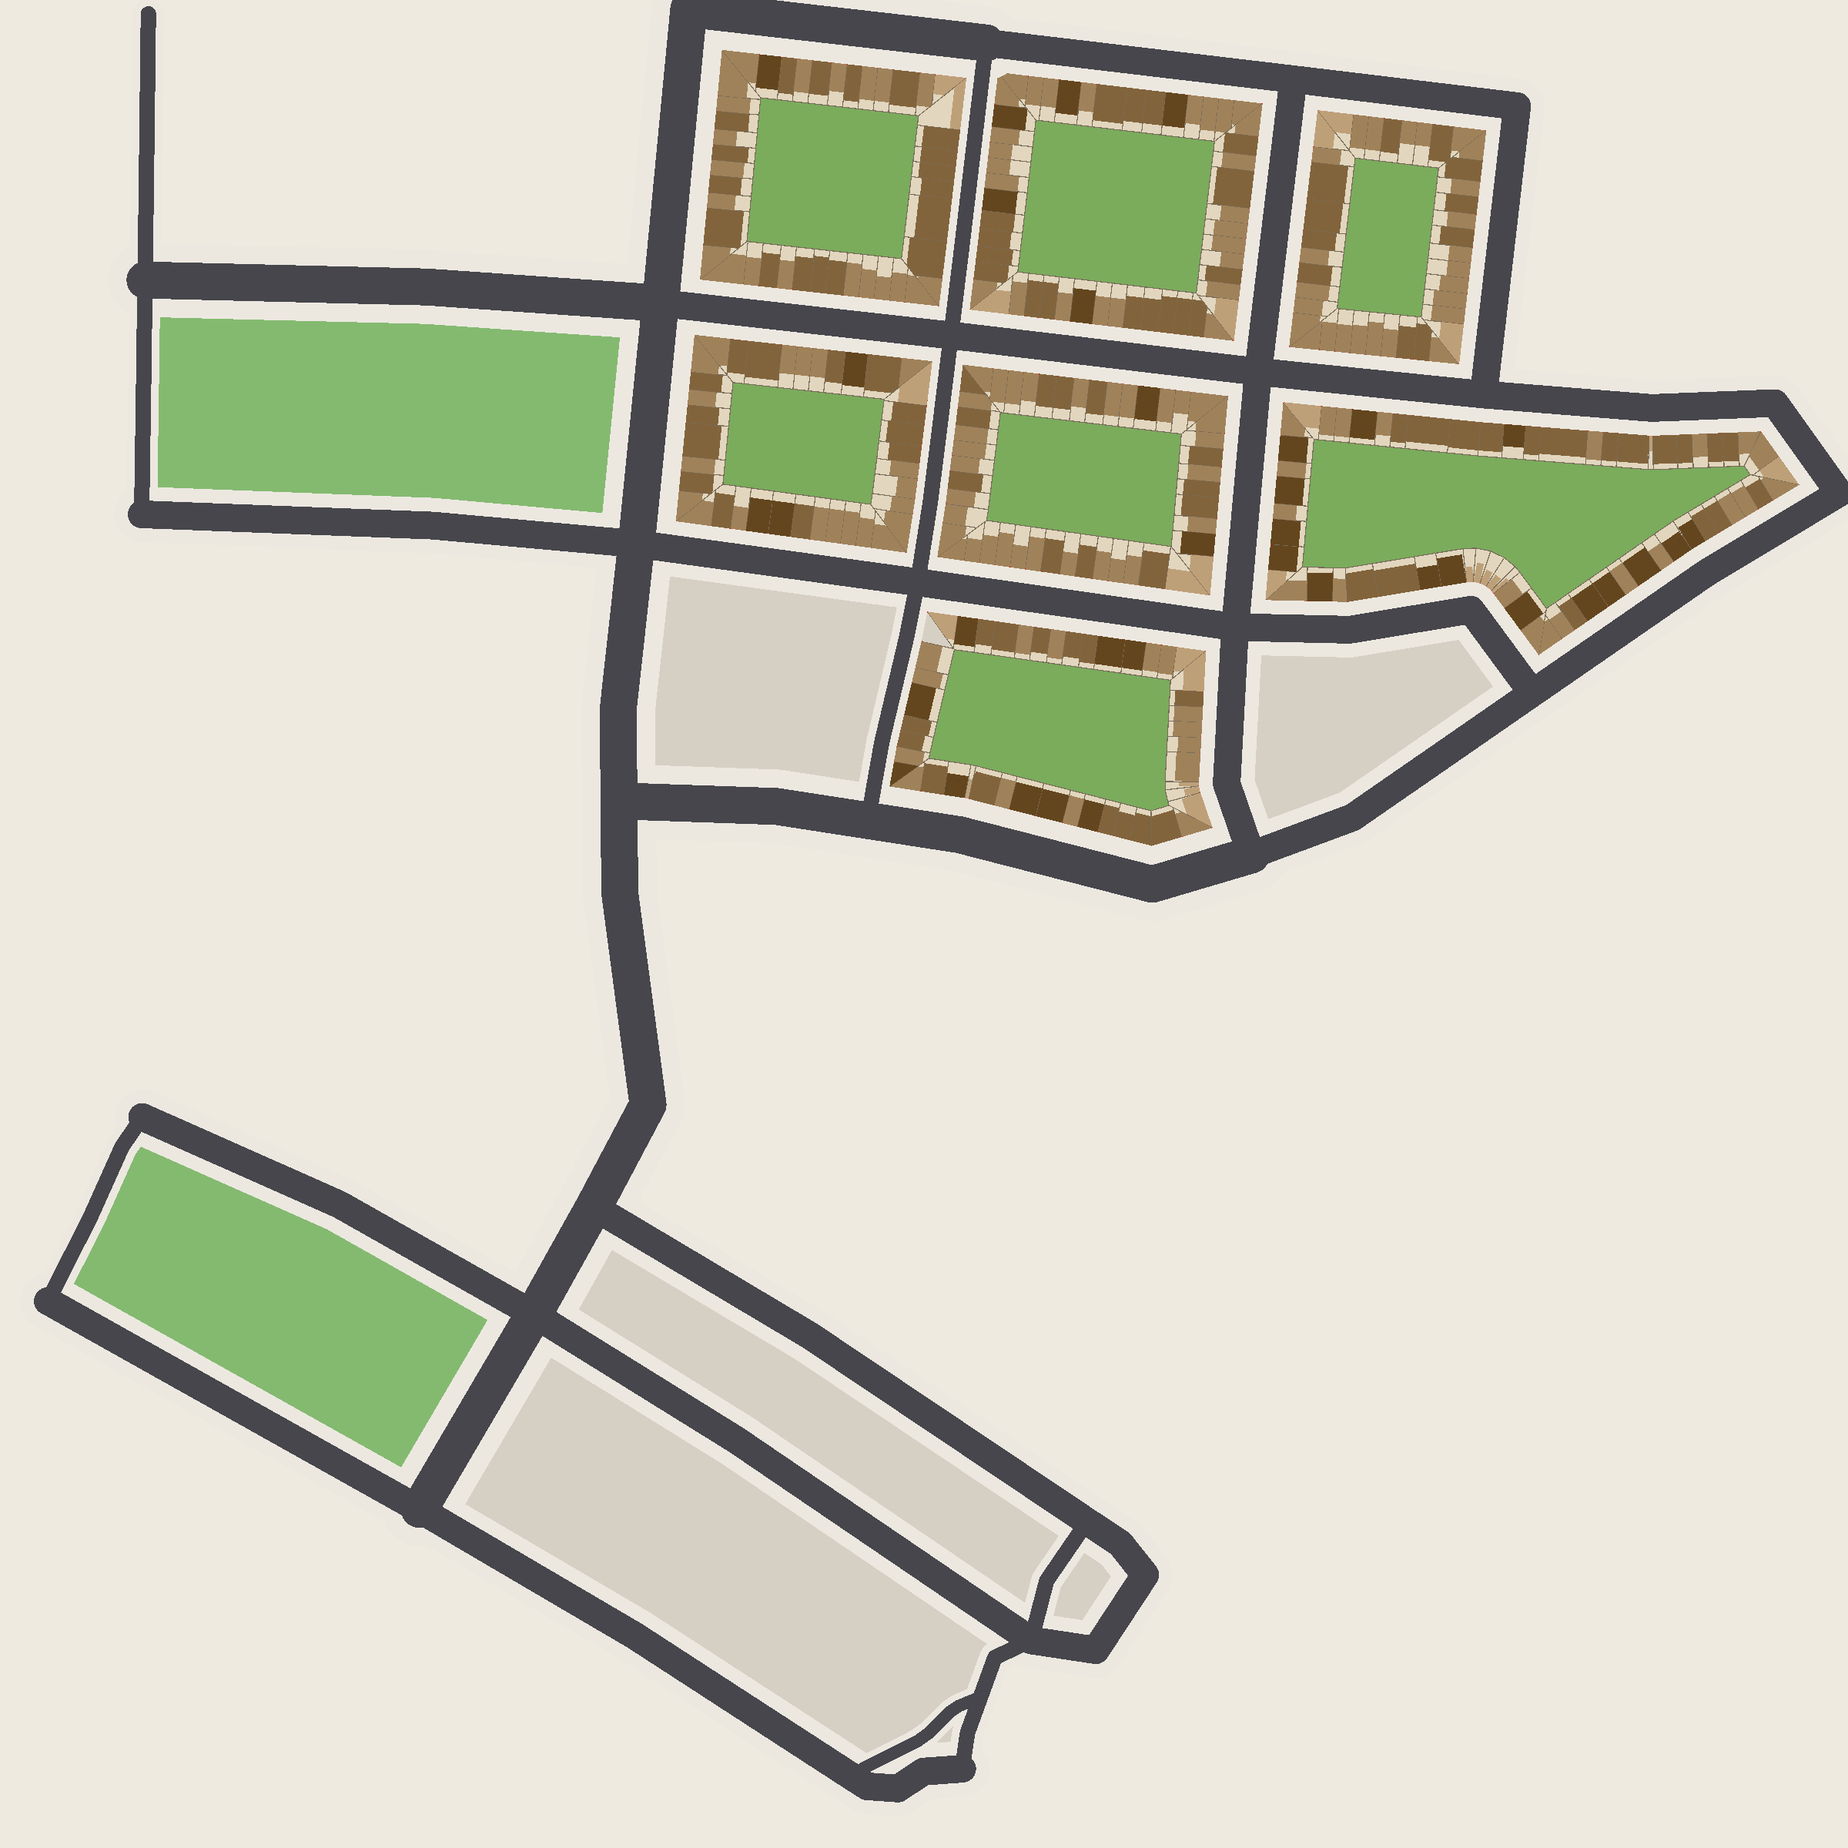
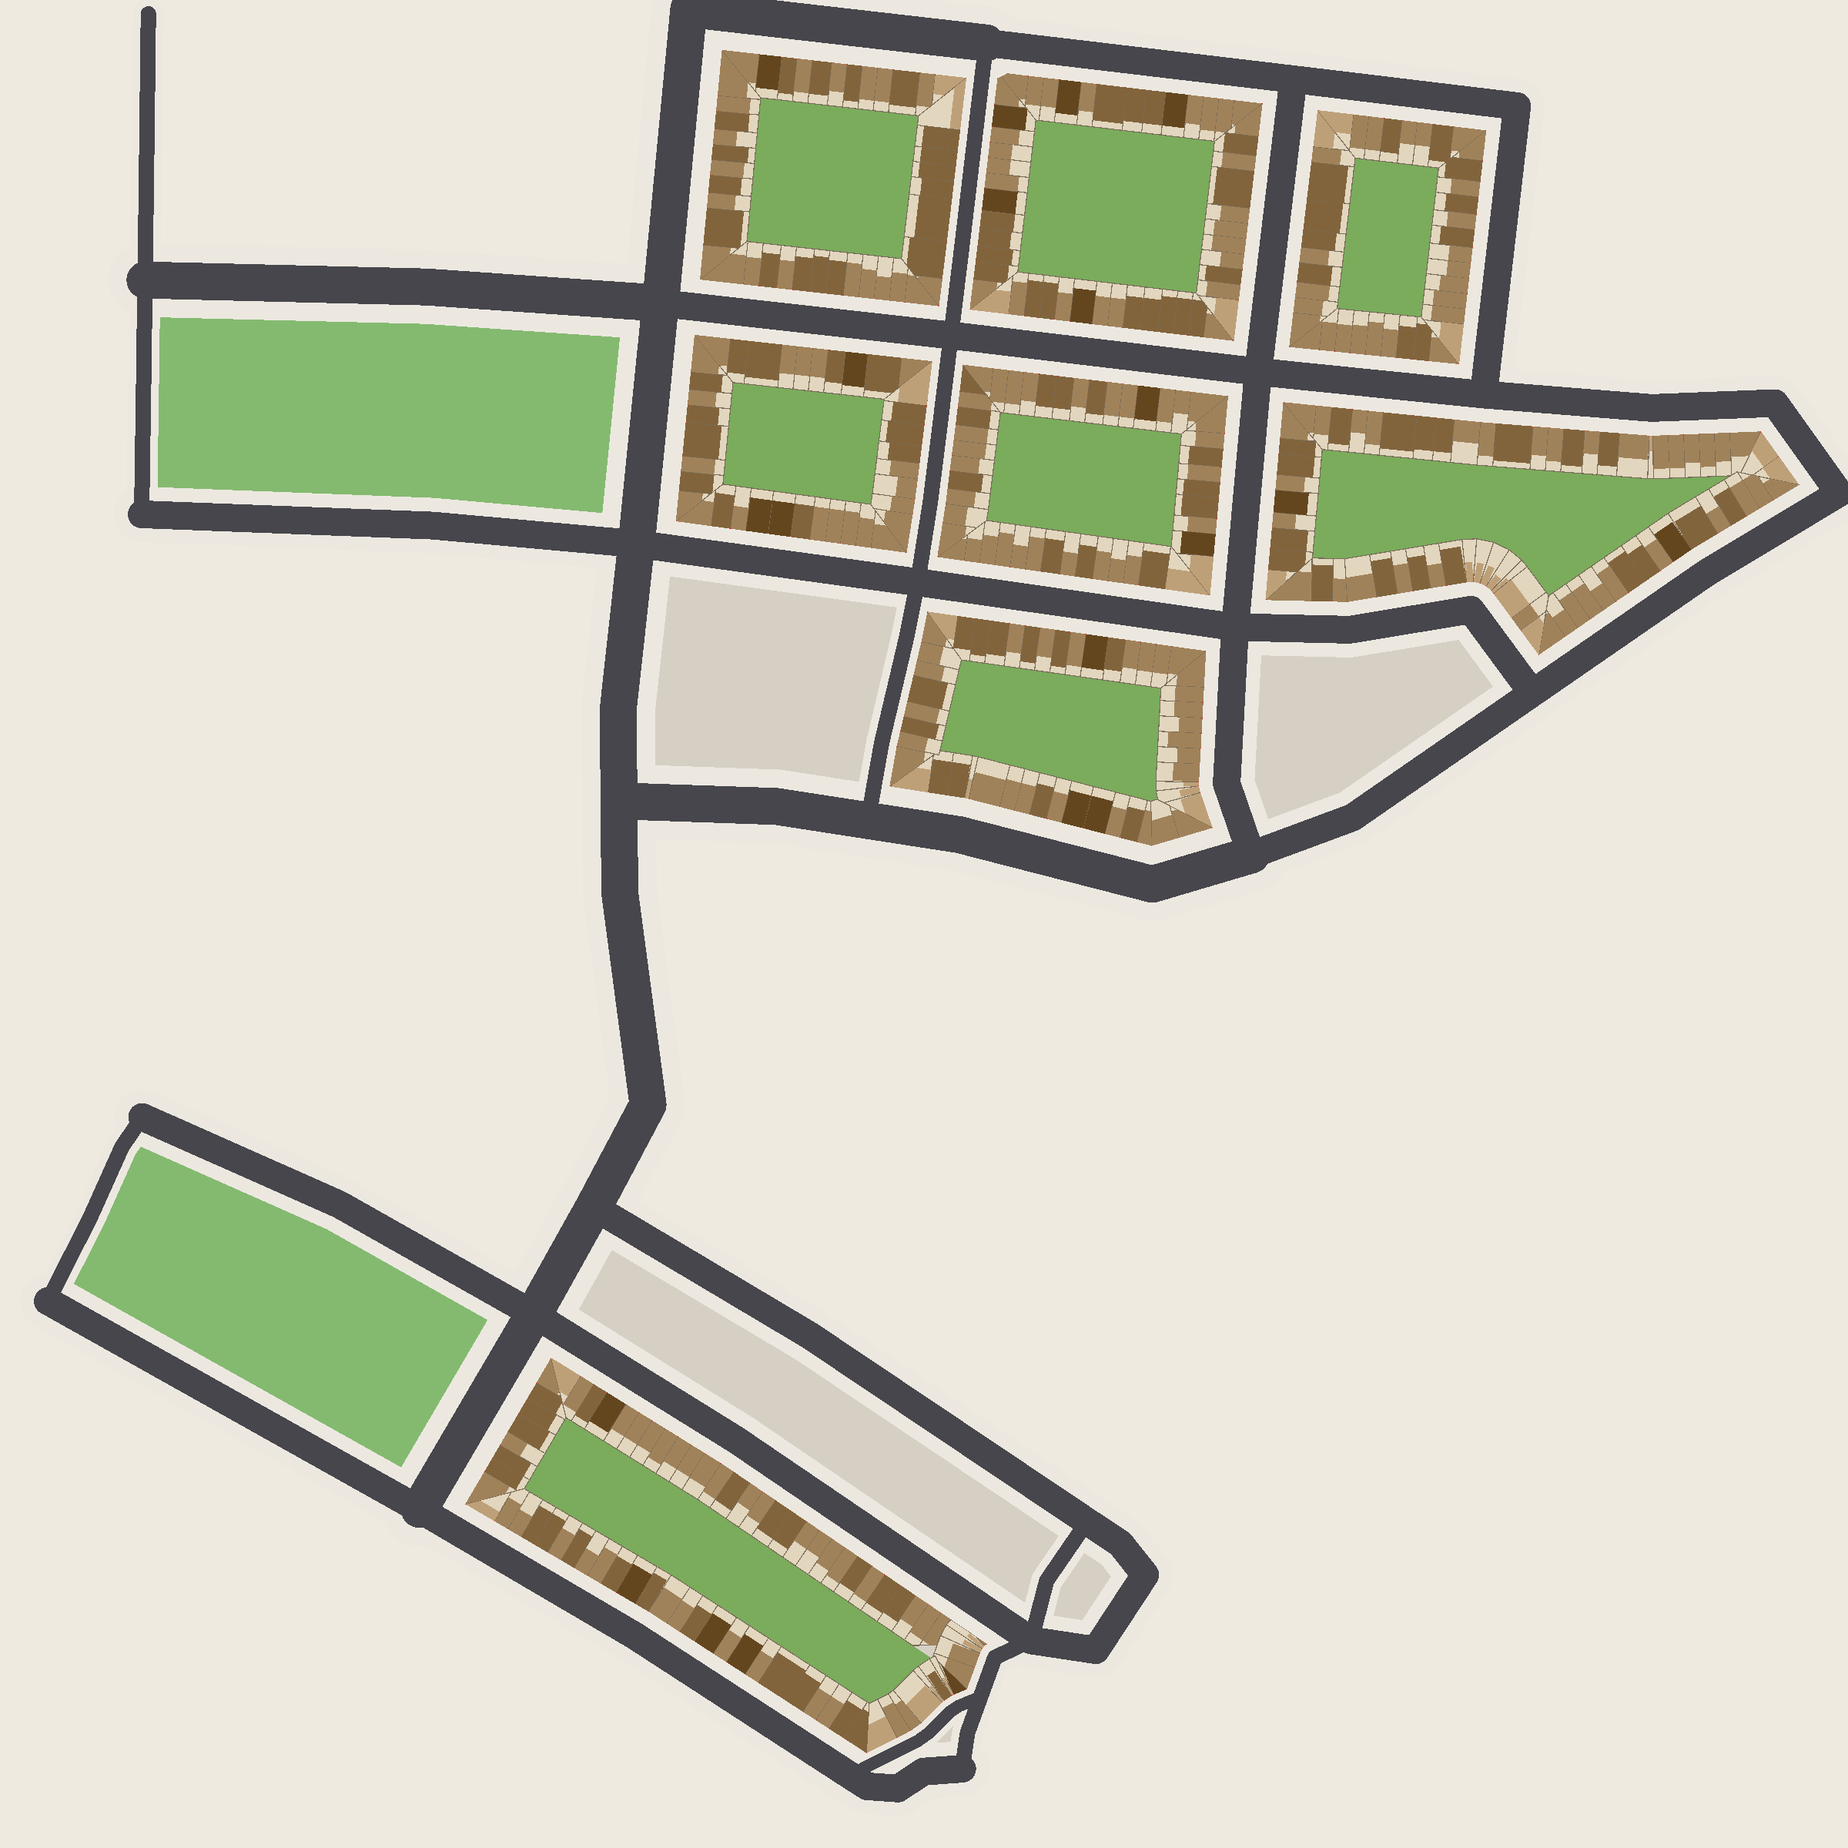
The village on its own plan: lanes that wander, one main road, no trams; strips on any block (#266)
`village::params`: one village district on the site's middle with organic
lanes, one main road, no trams, boats nor landmarks, a green within 200 m
of every block; `city-plan --village` plans on it. The traced lanes make
blocks of many short edges, which the strips refused: the inset by the
depth lost corners and had to keep the block's vertex count. A strip is
now the block within the depth of its street side, between the bisectors
at the side's two corners (a reflex corner's too), and the court is the
inset that drops the edges it turns over (`geom::inset_by_collapsing`);
the clips' repeated corners are cleaned. The village's own plan at 600 m:
16 blocks, 13 built and all with strips, 559 houses, 1 691 people; the
city's parameters' example: 8 blocks with strips of 9, 406 houses.

Checks: the gate; the parcels, houses and village tests, the new one on
the village's own plan (no trams, four built blocks at least, forty
houses); drawn in reports/2026-10-16 (village-own-organic.png, the 3D
captures redone).

Changed region(s): [[0.25, 0.7188, 0.5312, 0.9688], [0.6875, 0.2188, 0.9688, 0.3438], [0.4688, 0.3125, 0.6562, 0.4688]]

diff --git a/crates/forge-procgen/src/city/village.rs b/crates/forge-procgen/src/city/village.rs
@@ -6,7 +6,7 @@
 //! Each house is also one of the city's masses on its own lot, so the structures, the facades
 //! and the kit draw it as they draw the city's buildings.
 
-use forge_core::SplitMix64;
+use forge_core::{Seed, SplitMix64};
 use glam::DVec2;
 
 use super::blocks::{self, BlockUse, Lot};
@@ -16,7 +16,9 @@ use super::mass::{Mass, Roof};
 use super::parcels::{self, ParcelType};
 use super::rooms::{self, Means};
 use super::structure::Era;
-use super::{CityParams, CityPlan, DistrictKind, Site, plan};
+use super::{
+    BoundaryInfluence, CityParams, CityPlan, DistrictKind, DistrictSpec, Pattern, Site, plan,
+};
 
 /// A built block's lots, court and houses.
 #[derive(Clone, Debug, PartialEq)]
@@ -70,6 +72,51 @@ fn household(seed: u64, b: usize, k: usize) -> (u32, Means) {
         Means::Rich
     };
     (people, means)
+}
+
+/// The village's own parameters for a site `size` across (D-062, #266): one village district
+/// on the site's middle with lanes that wander, one main road, no trams, boats nor landmarks, a
+/// green within 200 m of every block, the land beyond the village left to the forest.
+pub fn params(size: f64) -> CityParams {
+    let at = |x: f64, y: f64| DVec2::new(x * size, y * size);
+    CityParams {
+        seed: Seed::new(20_261_016),
+        districts: vec![DistrictSpec {
+            name: "village".into(),
+            kind: DistrictKind::Village,
+            anchor: at(0.5, 0.5),
+            radius: 0.25 * size,
+            pattern: Pattern::Organic(1.2),
+            grid_angle: 0.3,
+            street_spacing: 80.0,
+            lot_area: 200.0,
+            floors: (1, 3),
+            depth: None,
+            tiled_roofs: Some(1.0),
+            gaps: None,
+            run: None,
+        }],
+        main_spacing: size,
+        boundary: BoundaryInfluence {
+            strength: 1.5,
+            reach: 0.03 * size,
+        },
+        max_bridge: 80.0,
+        centre: at(0.5, 0.5),
+        tram_lines: Vec::new(),
+        stop_spacing: 450.0,
+        stop_target: 0.0,
+        max_extra_lines: 0,
+        boat_gap: f64::INFINITY,
+        landmarks: Vec::new(),
+        park_reach: 200.0,
+        park_min_area: 2_000.0,
+        park_share_cap: 0.15,
+        forest_above: f32::MAX,
+        forest_slope: f32::MAX,
+        reach: None,
+        max_block: None,
+    }
 }
 
 /// The village on `site` by `params`: the plan, then each built block's strips and houses, and
@@ -167,6 +214,37 @@ mod tests {
     use super::super::example;
     use super::super::structure::{self, OpeningKind, WallRole};
     use super::*;
+
+    #[test]
+    fn the_villages_own_plan_has_lanes_houses_and_no_trams() {
+        let size = 600.0;
+        let site = example::site(size, 10.0);
+        let v = village(&site, &params(size), 1);
+        let built = v
+            .plan
+            .blocks
+            .iter()
+            .filter(|b| b.use_ == BlockUse::Built)
+            .count();
+        let houses = v.houses().count();
+        println!(
+            "the village's own plan: {} nodes, {} edges, {} blocks ({built} built), {} with \
+             strips, {} without, {houses} houses, {} people",
+            v.plan.roads.nodes.len(),
+            v.plan.roads.edges.len(),
+            v.plan.blocks.len(),
+            v.blocks.len(),
+            v.without,
+            v.houses().map(|h| h.household.0).sum::<u32>()
+        );
+        assert!(v.plan.tram_lines.is_empty() && v.plan.landmarks.is_empty());
+        assert!(built >= 4, "{built} built blocks");
+        assert!(houses >= 40, "{houses} houses");
+        if let Ok(path) = std::env::var("VILLAGE_OWN_PNG") {
+            super::super::map::write_village(&v, std::path::Path::new(&path), 0.25)
+                .expect("the drawing");
+        }
+    }
 
     #[test]
     fn the_example_village_has_its_houses_on_strips() {

diff --git a/crates/forge-procgen/src/city/parcels.rs b/crates/forge-procgen/src/city/parcels.rs
@@ -36,8 +36,8 @@ impl ParcelType {
 
 /// A block's lots and its court. The block is a polygon of positive area; `street[i]` says
 /// whether its edge `i` (from vertex `i` to `i + 1`) is a street side, the others party sides
-/// (a lot there reaches the court). `None` where the block is too thin or too concave for a
-/// strip of the type's depth all round: the caller falls back on another cut.
+/// (a lot there reaches the court). `None` where the block is too thin for a strip of the
+/// type's depth all round: the caller falls back on another cut.
 pub fn strips(
     block: &[DVec2],
     street: &[bool],
@@ -67,10 +67,25 @@ pub fn strips_with(
     if n < 3 || street.len() != n || geom::signed_area(block) <= 0.0 {
         return None;
     }
-    let court = geom::inset(block, ty.depth)?;
-    if court.len() != n || geom::signed_area(&court) <= 1.0 {
-        return None;
-    }
+    // The court: the block inset by the depth. A block too thin for it takes no strips; one
+    // whose inset loses a corner (a short edge gone, the straight skeleton's edge event) still
+    // takes them, each strip bounded by its depth line and its corners' bisectors.
+    let court = geom::inset_by_collapsing(block, &vec![ty.depth; n])
+        .filter(|c| c.len() >= 3 && geom::signed_area(c) > 1.0)?;
+    // Each edge's inward normal, and each corner's bisector (its two edges' normals' sum, which
+    // also halves a reflex corner's inner angle).
+    let normal = |i: usize| {
+        let t = (block[(i + 1) % n] - block[i]).normalize_or_zero();
+        DVec2::new(-t.y, t.x)
+    };
+    let bisector = |i: usize| {
+        let d = normal((i + n - 1) % n) + normal(i);
+        if d.length() < 1e-6 {
+            normal(i)
+        } else {
+            d.normalize()
+        }
+    };
     let mut lots: Vec<Vec<DVec2>> = Vec::new();
     let mut keys: Vec<usize> = Vec::new();
     for i in 0..n {
@@ -83,14 +98,20 @@ pub fn strips_with(
         if length < 0.5 {
             continue;
         }
-        // The strip: the street side, then back along the court; its ends on the corners'
-        // bisectors, so the first and last lots take the corners.
-        let strip = vec![a, b, court[j], court[i]];
-        if geom::signed_area(&strip) <= 1.0 {
-            continue;
-        }
         let t = (b - a) / length;
         let inward = DVec2::new(-t.y, t.x);
+        // The strip: the block within the depth of its street side, between the bisectors at
+        // the side's two corners, so the first and last lots take the corners.
+        let mut strip = geom::clip_half_plane(block, a + inward * ty.depth, -t);
+        for (corner, d, along) in [(a, bisector(i), t), (b, bisector(j), -t)] {
+            let keep = if d.perp_dot(along) >= 0.0 { d } else { -d };
+            strip = geom::clip_half_plane(&strip, corner, keep);
+        }
+        // The clips repeat a corner they pass through.
+        let strip = geom::clean(&strip, 1e-6);
+        if strip.len() < 3 || geom::signed_area(&strip) <= 1.0 {
+            continue;
+        }
         // The cuts along the street: a width drawn each time; the last lot takes what is left
         // when that is short of the least width, so no sliver is cut.
         let mut cuts = vec![0.0];
@@ -122,6 +143,7 @@ pub fn strips_with(
                     // Before the cut at s1: its left.
                     lot = geom::clip_half_plane(&lot, a + t * s1, inward);
                 }
+                let lot = geom::clean(&lot, 1e-6);
                 if lot.len() >= 3 && geom::signed_area(&lot).abs() > 1.0 {
                     out.push((ks[k], from_the_street(lot, a, b)));
                 }

diff --git a/demos/city-plan/src/main.rs b/demos/city-plan/src/main.rs
@@ -69,7 +69,12 @@ fn main() -> anyhow::Result<()> {
     let cli = Cli::from_arg_matches(&matches)?;
     let size = cli.village.unwrap_or(cli.size);
     let site = example::site(size, 10.0);
-    let params = example::params(size);
+    // The village on its own parameters: lanes, one main road, no trams nor landmarks.
+    let params = if cli.village.is_some() {
+        city::village::params(size)
+    } else {
+        example::params(size)
+    };
     let (plan, masses) = match cli.village {
         Some(_) => {
             let v = city::village::village(&site, &params, 1);

diff --git a/docs/demos/city-plan.md b/docs/demos/city-plan.md
@@ -368,18 +368,26 @@ households after it), never under the type's 5 m; a thin block takes a shallower
 then 8 m, a house with no yard), one too thin for that keeps no houses. Each house is also one
 of the city's masses on its own lot, appended to the plan's (old stone, a tiled roof, homes
 only), so the structures, the facades and the kit draw it as they draw the city's buildings.
-The example village: 7 blocks with strips round their courts, 2 too thin or concave, 323
-houses of one to four storeys (26, 159, 103 and 35), 1 012 people, 314 houses with a door
-(`reports/2026-10-16/village-600m.png`; `VILLAGE_PNG=path cargo test -p forge-procgen
+The example village on the city's parameters: 8 blocks with strips round their courts, 1 too
+thin, 406 houses of one to four storeys (35, 225, 125 and 21), 1 273 people, 394 houses with
+a door (`reports/2026-10-16/village-600m.png`; `VILLAGE_PNG=path cargo test -p forge-procgen
 village` draws it). The first cut (2026-10-15) drew the widths at random: 191 houses, 586
 people, and once the houses were masses the rich households on 5 m lots stood nine storeys.
-**In 3D:** `cargo run --release -p city-plan -- --village 600` draws the village in place of
-the city, every house from the kit (`reports/2026-10-16/village-air.png` from the air,
-`village-street.png` from the first house's street, which the log names for `--view`). Next:
-the structures from the plans (the rooms as D-060's units and the stair where the hall is: only
-38 houses get a stair core now, the city's cores not fitting a 5 m house), the village's own
-site and street pattern (one main street, lanes off it, no trams nor market hall), the forest
-round it, the player on foot.
+**Its own plan** (`village::params`, the same day): one village district on the site's middle
+with lanes that wander (`Pattern::Organic`), one main road, no trams, boats nor landmarks, a
+green within 200 m of every block. The traced lanes make blocks of many short edges, which the
+strips refused (the inset by the depth lost corners): a strip is now the block within the
+depth of its street side between the bisectors at the side's two corners (a reflex corner's
+too), and the court is the inset that drops the edges it turns over
+(`geom::inset_by_collapsing`); every built block takes strips. The example site at 600 m on
+its own plan: 35 nodes, 50 edges, 16 blocks, 13 built and all with strips, 559 houses, 1 691
+people (`reports/2026-10-16/village-own-organic.png`; `VILLAGE_OWN_PNG=path` draws it).
+**In 3D:** `cargo run --release -p city-plan -- --village 600` draws the village on its own
+plan in place of the city, every house from the kit (`reports/2026-10-16/village-air.png` from
+the air, `village-street.png` from the first house's street, which the log names for
+`--view`). Next: the structures from the plans (the rooms as D-060's units and the stair where
+the hall is: only 38 houses get a stair core now, the city's cores not fitting a 5 m house), a
+square with the rich house, the forest round the village, the player on foot.
 
 **The trees, sized to their streets.** Trimmed street trees of 9–12 m line the avenues, 7–10 m trees
 the shared streets and 5–7 m trees the lanes. Each instance is scaled by its own crown
@@ -483,8 +491,12 @@ flight's item 21). Since 2026-10-16 the kit's buildings carry their insides (`in
 street, court and party wall's inner face at the wall's thickness, run the thickness past each
 end so two meet at a corner; a stone floor a storey (the ground floor a hand over the block's
 ground) and a plaster ceiling under each slab and under the roof, on the footprint inset by
-the thickest wall. Nothing of it shows from outside (the sandbox's day check is unchanged),
-and inside a building one sees a dark room (the sandbox's
+the thickest wall. Over a passage into the court the face starts at the passage's head and the
+ground floor keeps clear of the passage's width (whole, they closed every passage behind its
+mouth with a black wall: the sandbox's `inside/passage-before.png` and `-after.png`). Nothing
+else of it shows from outside (the sandbox's day check differs by a ꟻLIP mean of 0.015 at
+most, scattered over the far city: the probes inside the buildings no longer see the sky
+through their walls' backs), and inside a building one sees a dark room (the sandbox's
 `reports/2026-10-15/owner-views/inside/`, before and after). The sandbox's 4 205 kit buildings
 take 143 k triangles for it, and the view inside one draws in 2.20 ms as before (2.21).
 The windows show nothing from inside yet (the glass is drawn for the street), and the far
